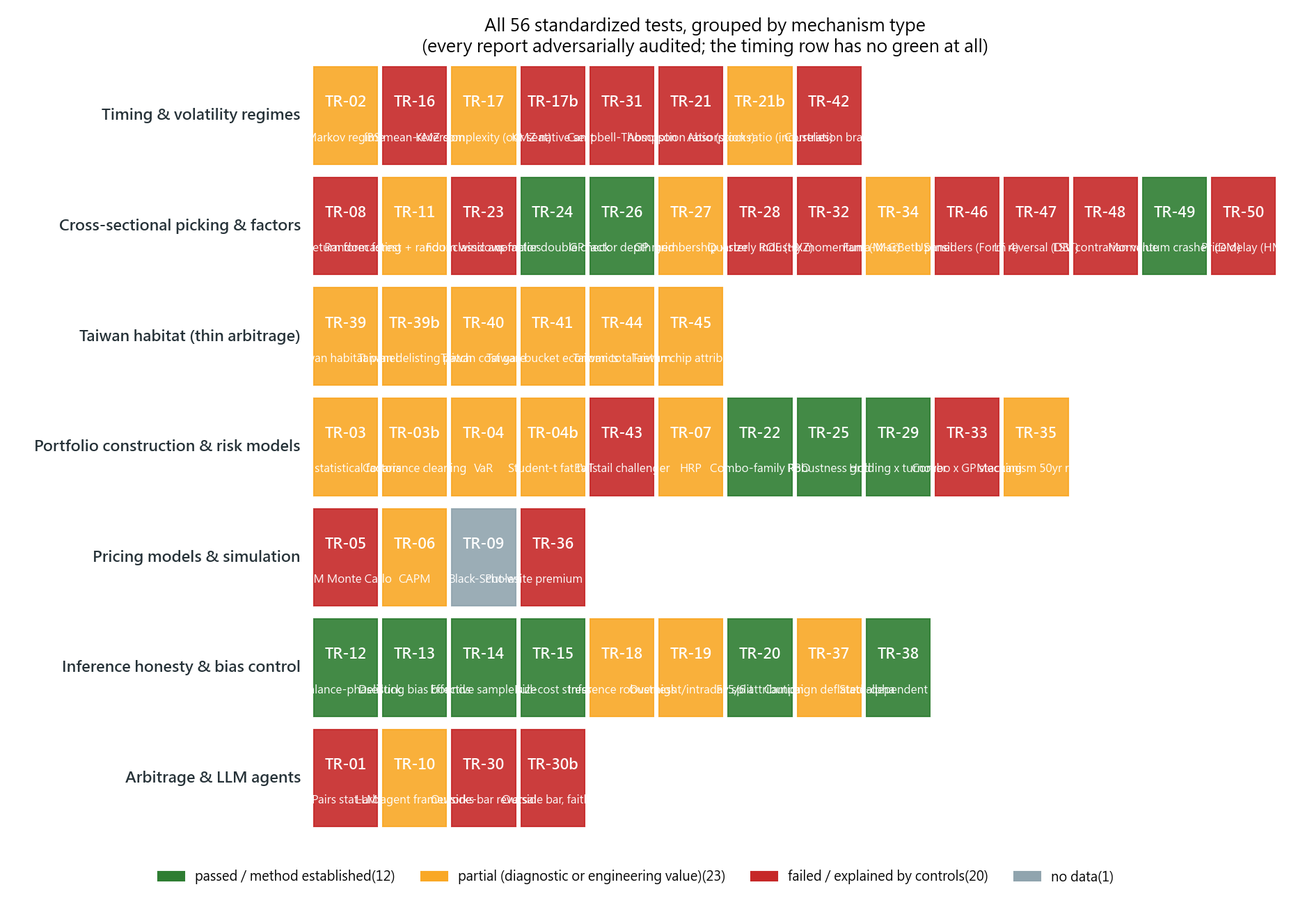
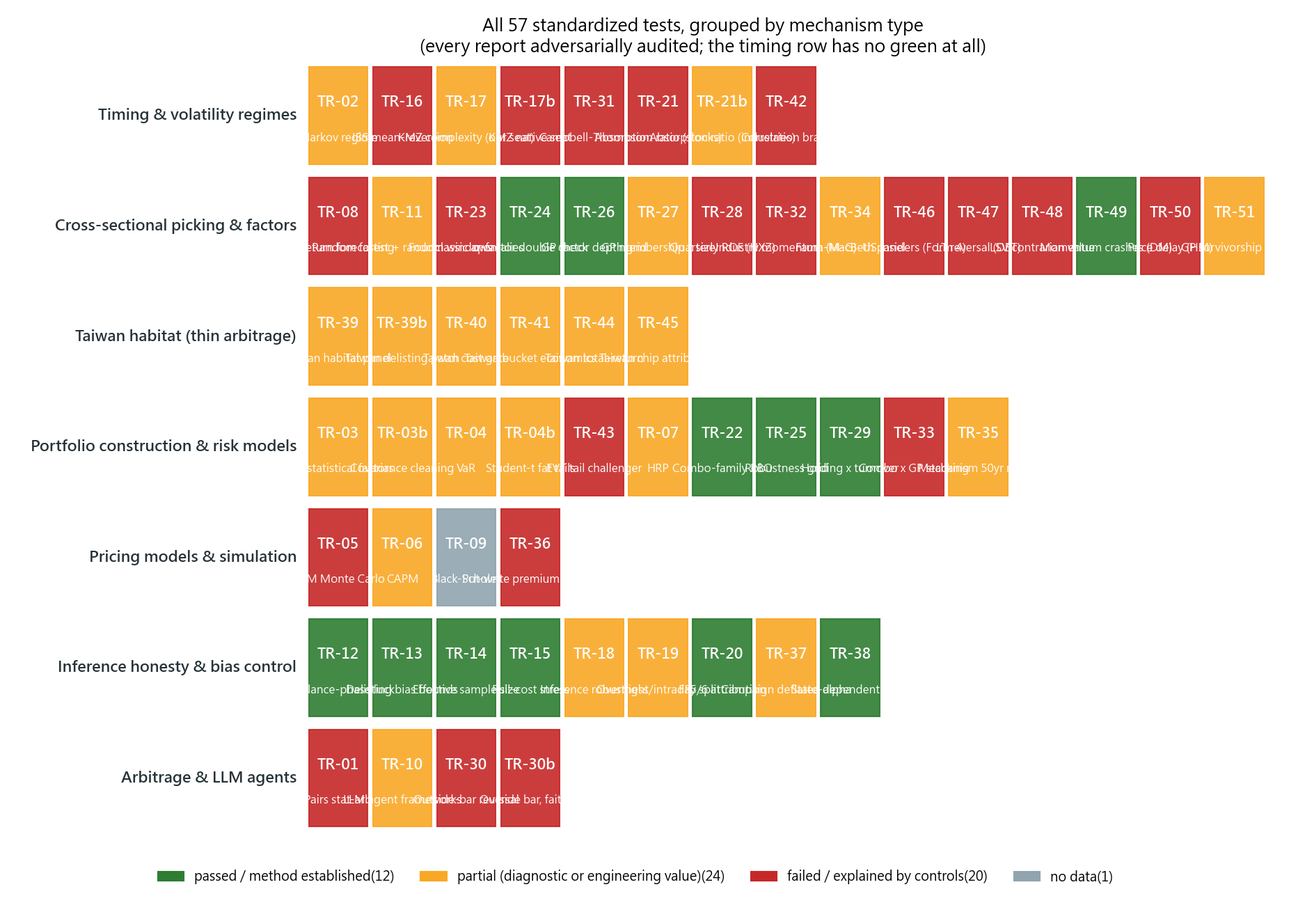
TR-51 (B1 final): GP survivorship verdict WEAKENED -- patched members ICIR +0.165 -> +0.056, two-thirds of the residual was survivorship glare; the absentees were high-GP DECLINERS (both pre-registered bias directions wrong, cohort diagnostic arbitrated); autopsy MIXED; the patched 1,180-name univer

diff --git a/scripts/tests/tr51_gp_survivorship.py b/scripts/tests/tr51_gp_survivorship.py
@@ -178,12 +178,21 @@ def main():
           f"{'PASS' if ok_b else 'FAIL'}")
 
     # ---- CAL c: delisting reality ----
+    # POST-RUN AUDIT NOTE (v1 -> v2): v1 FAILED with an empty hit list -- two
+    # implementation errors, not missing data. (1) the probe list guessed SIVBQ;
+    # Tiingo carries the tail under SIVB (last $0.01) and SBNY ($0.40). (2) the
+    # lookup ran on the FUNDAMENTALS-FILTERED panel, which silently drops any
+    # collapse name lacking facts (SBNY is no_cik). v2 queries the PRICE STORE
+    # directly with the alias-expanded list; the declared threshold (>=1 name,
+    # terminal close < $10) is unchanged.
     hits = []
-    for s in DEATH_CHECK:
-        if s in pat["px"].columns:
-            last = pat["px"][s].dropna()
-            if len(last) and float(last.iloc[-1]) < 10:
-                hits.append((s, float(last.iloc[-1]), last.index[-1]))
+    for s in DEATH_CHECK + ("SIVB",):
+        try:
+            ser = store.load_close_pivot([s], column="adj_close").iloc[:, 0].dropna()
+        except Exception:
+            continue
+        if len(ser) and float(ser.iloc[-1]) < 10:
+            hits.append((s, float(ser.iloc[-1]), ser.index[-1]))
     ok_c = len(hits) >= 1
     print(f"CAL c:崩潰尾巴實在(終價<$10):{[(s, round(v,2), str(d.date())) for s,v,d in hits]}"
           f" -> {'PASS' if ok_c else 'FAIL'}")

diff --git a/scripts/readme_figs.py b/scripts/readme_figs.py
@@ -45,6 +45,7 @@ GROUPS = [
         ("TR-48", "LSV 價值反向", "LSV contrarian value", "F"),
         ("TR-49", "動量崩盤(DM)", "Momentum crashes (DM)", "P"),
         ("TR-50", "price delay(HM)", "Price delay (HM)", "F"),
+        ("TR-51", "GP 去倖存終判", "GP survivorship final", "M"),
     ]),
     ("台股棲地(套利稀薄)", "Taiwan habitat (thin arbitrage)", [
         ("TR-39", "台股棲地面板", "Taiwan habitat panel", "M"),
@@ -99,9 +100,9 @@ LEGEND = {
            "F": "failed / explained by controls", "X": "no data"},
 }
 TITLES = {
-    "zh": "56 份標準化測試,依機制類型分組\n"
+    "zh": "57 份標準化測試,依機制類型分組\n"
           "(每一份都經過對抗式稽核;擇時類一格綠色都沒有,綠色集中在方法與推論誠實度)",
-    "en": "All 56 standardized tests, grouped by mechanism type\n"
+    "en": "All 57 standardized tests, grouped by mechanism type\n"
           "(every report adversarially audited; the timing row has no green at all)",
 }
 

diff --git a/README.md b/README.md
@@ -10,7 +10,7 @@
 
 ### What this is
 
-A personal research project. It started with a finding we couldn't ignore: **McLean & Pontiff (2016, *Journal of Finance*)** re-tested 97 published return predictors and found their returns average **26% lower out-of-sample and 58% lower after publication** — the market eats published edges. So the question became: *of everything floating around the internet, papers, and guru books, how much survives an honest test run today?* Using $0/month of free data (yfinance, SEC EDGAR, public archives), across 100+ commits and **~150 mechanisms/strategies tested (56 standardized test reports, every one adversarially audited)**, the answer turned out to be more valuable than the question — because it turned *"what do we know, what don't we know, and how do we decide what's feasible"* into reproducible code and documents.
+A personal research project. It started with a finding we couldn't ignore: **McLean & Pontiff (2016, *Journal of Finance*)** re-tested 97 published return predictors and found their returns average **26% lower out-of-sample and 58% lower after publication** — the market eats published edges. So the question became: *of everything floating around the internet, papers, and guru books, how much survives an honest test run today?* Using $0/month of free data (yfinance, SEC EDGAR, public archives), across 100+ commits and **~150 mechanisms/strategies tested (57 standardized test reports, every one adversarially audited)**, the answer turned out to be more valuable than the question — because it turned *"what do we know, what don't we know, and how do we decide what's feasible"* into reproducible code and documents.
 
 ### The bottom line (as of 2026-07)
 
@@ -18,14 +18,14 @@ A personal research project. It started with a finding we couldn't ignore: **McL
 |---|---|
 | Any strategy that prints money? | **No.** The 50%-CAGR-at-low-drawdown target zone is structurally empty — everything we tested sits on the same Calmar ≈ 0.6 ray. |
 | Any real alpha at all? | **One, borderline.** The 5-sleeve risk-parity book: monthly Carhart t=2.64, below the strict 3.0 bar. Its real deliverable is risk-shaping, levered to your budget. Selection-honest deflation (TR-37): P(the alpha is real) ≈ 0.87 at the 17 combo-level trials we actually ran, 0.56 under the paranoid all-campaign count, ≈ 0.8 under a 90%-null skeptical prior — most likely real, but no honest angle calls it certain. |
-| Any stock-picking signal? | **One, and it keeps getting more honest.** Gross profitability — headline ICIR +0.30, but masked to actual index members at each date it retains only 59% (ICIR +0.13, TR-27), and its IC turned negative in 2025-26 (on watch); a joint Fama-MacBeth panel sharpens the watch — independently priced in 2015-2020 (t=+2.67), flat since 2021 (TR-34). Momentum, value, PEAD, insider, ML forecasters, and four classic anomalies all failed; industry momentum replicates but is pure momentum-factor exposure (TR-32). And the two survivors do not stack: a GP sleeve subtracts alpha from the flagship book (TR-33 — the honest chain ends at a +0.04%/yr tradable spread). First crack of light from a new habitat: on the Taiwan panel (1,151 TWSE stocks, TR-39) four characteristics cleared t≥2 jointly — and the survivorship patch (TR-39b: official TWSE delisted list + a pandas pct_change ffill backdoor caught by CAL) then split them: momentum (+84bps/mo, t=2.4), abnormal volume (+94, t=3.4) and illiquidity (−106, t=−2.8) are CONFIRMED and stronger after 2021, while the MAX lottery premium was retired as survivorship glare. Then the cost gate (TR-40) INVERTED the ranking: the panel's strongest slope (abnormal volume, t=3.4) turns over 6.8x/yr and loses 7.07%/yr to fees, netting t=0.6; the weakest (illiquidity) barely turns over and nets **+6.75%/yr, t=2.3** — the only survivor, robust to a 31-tick break-even spread but capacity-capped, which is what an illiquidity premium *is*. The bucket decomposition (TR-41) then killed the intuitive high-capacity workaround: the premium lives ONLY in the last decile (D2 is already zero, D3-D9 are negative), so "avoid the most crowded names" is a significantly LOSING strategy (−0.92%/yr, t=−2.34) — excluding a good bucket just overweights the bad ones. It survives a skip-a-month stale-price check and decays monotonically with book size: a textbook liquidity compensation, not an anomaly. Final honesty pass (TR-44): re-run on dividend-ADJUSTED total-return prices, all three characteristics keep their sign and the ladder stays a cliff, but net of the real 45bps round trip every candidate is now only MARGINAL (illiquidity t=1.86, momentum t=0.81) — the mechanism is real, but on the strictest basis no candidate clears cleanly. The Taiwan line is a genuine effect that is not a clean tradable edge. A chip-flow attribution pass (TR-45, institutional flows + margin balances) completes the picture: foreign-flow continuation is real (t=3.3, independent of the price characteristics) but its top-decile portfolio fails the same excess-basis cost gate (net −4.1%/yr), momentum and abnormal volume are NOT institutional-flow-carried, and the cold-corner illiquidity premium shows median chip activity — a structural compensation, not a flow effect. The insider channel now has its standardized closure too (TR-46): Form-4 opportunistic vs routine net buying on S&P 500 members 2015+ is a well-powered zero (all |t|<0.5 at 415 covered names/month; the machinery demonstrably works — it nails the documented 2020-03 insider buying wave), consistent with the literature's size dependence; the small-cap leg waits on the p3 drip. The classic-paper queue is now closed out (TR-47–50): long-term reversal and LSV contrarian value are well-powered zeros here (the KF long history shows De Bondt-Thaler decaying on schedule after its 1985 publication — a textbook McLean-Pontiff arc), and Hou-Moskowitz price delay comes out INVERTED but control-absorbed (a beta/size repackaging, not a signal). Momentum crashes (TR-49) replicate on the factor seat — see the timing row. |
+| Any stock-picking signal? | **One, and it keeps getting more honest.** Gross profitability — headline ICIR +0.30, but masked to actual index members at each date it retains only 59% (ICIR +0.13, TR-27) — and the survivorship FINAL verdict (TR-51: 374 dead members' prices AND fundamentals restored via Tiingo + an EDGAR/Form-4 CIK bridge) cuts it again to **+0.06**: two-thirds of the residual was the absence of high-GP DECLINERS (the index removes losers while GP's book-asset denominator keeps their GP high; exit-window median GP rank 0.57, pre-exit relative return −1.5% — both pre-registered bias directions were wrong, the cohort diagnostic arbitrated). The honest chain now reads +0.30 → +0.23 → +0.13 → +0.06, one notch above artifact; its IC also turned negative in 2025-26 (on watch); a joint Fama-MacBeth panel sharpens the watch — independently priced in 2015-2020 (t=+2.67), flat since 2021 (TR-34). Momentum, value, PEAD, insider, ML forecasters, and four classic anomalies all failed; industry momentum replicates but is pure momentum-factor exposure (TR-32). And the two survivors do not stack: a GP sleeve subtracts alpha from the flagship book (TR-33 — the honest chain ends at a +0.04%/yr tradable spread). First crack of light from a new habitat: on the Taiwan panel (1,151 TWSE stocks, TR-39) four characteristics cleared t≥2 jointly — and the survivorship patch (TR-39b: official TWSE delisted list + a pandas pct_change ffill backdoor caught by CAL) then split them: momentum (+84bps/mo, t=2.4), abnormal volume (+94, t=3.4) and illiquidity (−106, t=−2.8) are CONFIRMED and stronger after 2021, while the MAX lottery premium was retired as survivorship glare. Then the cost gate (TR-40) INVERTED the ranking: the panel's strongest slope (abnormal volume, t=3.4) turns over 6.8x/yr and loses 7.07%/yr to fees, netting t=0.6; the weakest (illiquidity) barely turns over and nets **+6.75%/yr, t=2.3** — the only survivor, robust to a 31-tick break-even spread but capacity-capped, which is what an illiquidity premium *is*. The bucket decomposition (TR-41) then killed the intuitive high-capacity workaround: the premium lives ONLY in the last decile (D2 is already zero, D3-D9 are negative), so "avoid the most crowded names" is a significantly LOSING strategy (−0.92%/yr, t=−2.34) — excluding a good bucket just overweights the bad ones. It survives a skip-a-month stale-price check and decays monotonically with book size: a textbook liquidity compensation, not an anomaly. Final honesty pass (TR-44): re-run on dividend-ADJUSTED total-return prices, all three characteristics keep their sign and the ladder stays a cliff, but net of the real 45bps round trip every candidate is now only MARGINAL (illiquidity t=1.86, momentum t=0.81) — the mechanism is real, but on the strictest basis no candidate clears cleanly. The Taiwan line is a genuine effect that is not a clean tradable edge. A chip-flow attribution pass (TR-45, institutional flows + margin balances) completes the picture: foreign-flow continuation is real (t=3.3, independent of the price characteristics) but its top-decile portfolio fails the same excess-basis cost gate (net −4.1%/yr), momentum and abnormal volume are NOT institutional-flow-carried, and the cold-corner illiquidity premium shows median chip activity — a structural compensation, not a flow effect. The insider channel now has its standardized closure too (TR-46): Form-4 opportunistic vs routine net buying on S&P 500 members 2015+ is a well-powered zero (all |t|<0.5 at 415 covered names/month; the machinery demonstrably works — it nails the documented 2020-03 insider buying wave), consistent with the literature's size dependence; the small-cap leg waits on the p3 drip. The classic-paper queue is now closed out (TR-47–50): long-term reversal and LSV contrarian value are well-powered zeros here (the KF long history shows De Bondt-Thaler decaying on schedule after its 1985 publication — a textbook McLean-Pontiff arc), and Hou-Moskowitz price delay comes out INVERTED but control-absorbed (a beta/size repackaging, not a signal). Momentum crashes (TR-49) replicate on the factor seat — see the timing row. |
 | Does market timing work? | **No — eight separate confirmations, and the law is broader than we thought.** A dumb constant exposure or a random control matched or beat every timing mechanism tested (Markov, IBS, absorption ratio on two seats, KMZ complexity, Campbell-Thompson sign restrictions, the outside bar). The eighth (TR-42) extends it from RETURN timing to RISK-INPUT timing: a bond-equity correlation brake — which forecasts nothing, it only claims the risk model's inputs changed — still lost to a constant at matched average exposure, and landed at the 20th percentile of a random-brake placebo. And an external validation on the factor seat (TR-49): momentum's dramatic crashes ARE state-predictable (bear + high-vol months average −2.3%/mo, t=−2.4), yet the profitable fix is plain volatility scaling (Sharpe 0.42→0.96) — Daniel-Moskowitz's prediction-based weights add nothing over it. |
-| Then what's the asset here? | **The method and the data moat.** 56 adversarially audited test reports, a registry where negative results are first-class, seven documented self-corrections, and a $0 data stack with two collect-forward pipelines recording what money can't buy retroactively. |
+| Then what's the asset here? | **The method and the data moat.** 57 adversarially audited test reports, a registry where negative results are first-class, seven documented self-corrections, and a $0 data stack with two collect-forward pipelines recording what money can't buy retroactively. |
 
 ### What we built
 
 1. **An acceptance framework ("fabric" v2.0, [docs/17](docs/17-fabric-acceptance.md))** — a single rule table F0–F13 codifying every mistake we made: pre-committed falsifiable claims (F0), leak-free signals + fill-time conventions (F1), spread-scaled costs with mandatory 2× stress (F2), excess-over-T-bill Sharpe (F3), effective sample sizes (F4), campaign-wide trial accounting with a t≥3.0 alpha bar (F5), **the Nagel control triple — which simplest control explains it?** (F6), sub-period + long-history replay (F7), verdicts scoped to seat×habitat (F8), path randomization (F9), re-test cascades (F10), universe legitimacy (F11), rebalance-phase averaging (F12), and delisting rules (F13). Its economic preamble is **Grossman-Stiglitz**: at $0 information cost, equilibrium alpha is $0 — every re-open condition must be priced as an information cost.
-2. **Fifty-six standardized test reports** ([docs/tests/TR-01..24 + b-series](docs/tests/)): statistical arbitrage, Markov regime-switching, PCA factor models, covariance cleaning, VaR and fat tails, GBM Monte Carlo, CAPM, HRP, ML forecasting, Black-Scholes (N/A — no data, refused to fabricate), LLM agent frameworks, bagged backtesting, rebalance-phase luck, delisting bias, effective samples, cost stress, the IBS full trial — plus a paper-driven wave: inference robustness (TR-18), overnight/intraday decomposition (TR-19), FF5/6 and q-factor attribution (TR-20/24), four classic anomalies (TR-23), combo PBO (TR-22), and **native-seat replications** of Kelly-Malamud-Zhou's *Virtue of Complexity* (TR-17b) and the absorption ratio (TR-21b) — then a **depth series interrogating our own survivors** (the robustness plateau TR-25, GP depth/membership/quarterly clocks TR-26–28, holding-period economics TR-29, the two-survivor stacking test TR-33), the Goyal-Welch/Campbell-Thompson timing line at its source (TR-31), Moskowitz-Grinblatt industry momentum (TR-32), and a **creator-claim pipeline** that turns YouTube trading mechanisms into pre-registered tests (TR-30/30b). Every report was adversarially audited; the audits reversed our own headline more than once.
+2. **Fifty-seven standardized test reports** ([docs/tests/TR-01..24 + b-series](docs/tests/)): statistical arbitrage, Markov regime-switching, PCA factor models, covariance cleaning, VaR and fat tails, GBM Monte Carlo, CAPM, HRP, ML forecasting, Black-Scholes (N/A — no data, refused to fabricate), LLM agent frameworks, bagged backtesting, rebalance-phase luck, delisting bias, effective samples, cost stress, the IBS full trial — plus a paper-driven wave: inference robustness (TR-18), overnight/intraday decomposition (TR-19), FF5/6 and q-factor attribution (TR-20/24), four classic anomalies (TR-23), combo PBO (TR-22), and **native-seat replications** of Kelly-Malamud-Zhou's *Virtue of Complexity* (TR-17b) and the absorption ratio (TR-21b) — then a **depth series interrogating our own survivors** (the robustness plateau TR-25, GP depth/membership/quarterly clocks TR-26–28, holding-period economics TR-29, the two-survivor stacking test TR-33), the Goyal-Welch/Campbell-Thompson timing line at its source (TR-31), Moskowitz-Grinblatt industry momentum (TR-32), and a **creator-claim pipeline** that turns YouTube trading mechanisms into pre-registered tests (TR-30/30b). Every report was adversarially audited; the audits reversed our own headline more than once.
 3. **Working infrastructure**: point-in-time data layer (DuckDB+Parquet; EDGAR aligned to filing dates; 1993+ index history; PIT S&P 500 membership 1996–2026), order-independent backtest engine, rigor modules (PSR/DSR/PBO/SPA), daily Telegram monitors on free GitHub Actions, two **collect-forward pipelines** (daily SPY/QQQ option chains; weekly analyst estimates for the S&P 500 — you cannot download the past, only record the present), a 70-source **data-source catalog** with adopt/reject verdicts ([docs/refs/data-sources.md](docs/refs/data-sources.md)), and a **paper-to-TR pipeline** ([docs/21](docs/21-paper-to-tr-pipeline.md)).
 
 ### Results at a glance
@@ -40,9 +40,9 @@ A personal research project. It started with a finding we couldn't ignore: **McL
 
 **The scoreboard.** 226 named variants registered, 26 mechanism families judged, 5 PASSED — and exactly **one** statistically significant alpha. Most of what the internet calls "a working strategy" died in this funnel; keeping the failed strategies on record is half this repo's value.
 
-![Verdict map of all 56 standardized tests, grouped by mechanism type](docs/img/readme_verdict_map_en.png)
+![Verdict map of all 57 standardized tests, grouped by mechanism type](docs/img/readme_verdict_map_en.png)
 
-**The verdict map (updated 2026-07).** All 56 standardized tests, grouped by *what kind of mechanism* each one judges. Read it by row: the timing/regime row has no green at all; the green lives almost entirely in the inference-honesty row — method, not signals. The 2026-07 additions are the two native-seat replications: KMZ's Virtue of Complexity **replicates on its home turf (Sharpe +0.41 at 12,000 features) and is still fully explained by volatility-timing controls (+0.50)** — Nagel's critique confirmed at the source (TR-17b); the absorption ratio's crash-warning spike **weakly survives on industry portfolios (7/10 vs 33% base rate) while its timing gate lost to a static constant for the fifth time** (TR-21b). The newest wave sharpened all three storylines: Campbell-Thompson's sign restrictions rescue out-of-sample R² directionally and are still spanned by the same volatility controls (TR-31); Moskowitz-Grinblatt industry momentum is the least-decayed mechanism we have ever tested (−2% post-publication vs the −58% McLean-Pontiff average) precisely because it is not an anomaly — it is momentum-factor exposure in industry clothes, with zero alpha over FF5+UMD in every window (TR-32); and a user audit caught our own outside-bar engine being unfaithful to its source on four counts — rebuilt faithfully, the verdict class survived, this time earned (TR-30→30b).
+**The verdict map (updated 2026-07).** All 57 standardized tests, grouped by *what kind of mechanism* each one judges. Read it by row: the timing/regime row has no green at all; the green lives almost entirely in the inference-honesty row — method, not signals. The 2026-07 additions are the two native-seat replications: KMZ's Virtue of Complexity **replicates on its home turf (Sharpe +0.41 at 12,000 features) and is still fully explained by volatility-timing controls (+0.50)** — Nagel's critique confirmed at the source (TR-17b); the absorption ratio's crash-warning spike **weakly survives on industry portfolios (7/10 vs 33% base rate) while its timing gate lost to a static constant for the fifth time** (TR-21b). The newest wave sharpened all three storylines: Campbell-Thompson's sign restrictions rescue out-of-sample R² directionally and are still spanned by the same volatility controls (TR-31); Moskowitz-Grinblatt industry momentum is the least-decayed mechanism we have ever tested (−2% post-publication vs the −58% McLean-Pontiff average) precisely because it is not an anomaly — it is momentum-factor exposure in industry clothes, with zero alpha over FF5+UMD in every window (TR-32); and a user audit caught our own outside-bar engine being unfaithful to its source on four counts — rebuilt faithfully, the verdict class survived, this time earned (TR-30→30b).
 
 ![Flagship 5-sleeve combo vs VOO at L=1 and at a same-risk L=1.5](docs/img/fig_combo.png)
 
@@ -201,7 +201,7 @@ Architecture: UI (Streamlit) → CLI (Typer) → `trading_analysis.api` (only pu
 
 ### 專案概述
 
-一個個人研究的 side project。起點是一篇沒辦法當作沒看到的論文：**McLean 與 Pontiff(2016，《Journal of Finance》)**重測了 97 個已發表的報酬預測訊號，發現這些訊號的報酬平均在**樣本外低了 26%、論文發表之後低了 58%**——公開發表的優勢，會被市場逐步吃掉。所以真正的問題變成：「網路上、論文裡、大師書裡的那些策略，經過誠實的測試、放到今天，還剩下多少？」我們用每月 0 元的免費資料(yfinance、SEC EDGAR、公開檔案庫)，歷經 100 多次 commit、**約 150 個機制/策略的系統性測試(56 份標準化測試報告，每一份都經過對抗式稽核)**，得到的答案比問題本身更有價值，因為它把「什麼是已知、什麼是未知、如何判斷可不可行」變成了可重現的程式與文件。
+一個個人研究的 side project。起點是一篇沒辦法當作沒看到的論文：**McLean 與 Pontiff(2016，《Journal of Finance》)**重測了 97 個已發表的報酬預測訊號，發現這些訊號的報酬平均在**樣本外低了 26%、論文發表之後低了 58%**——公開發表的優勢，會被市場逐步吃掉。所以真正的問題變成：「網路上、論文裡、大師書裡的那些策略，經過誠實的測試、放到今天，還剩下多少？」我們用每月 0 元的免費資料(yfinance、SEC EDGAR、公開檔案庫)，歷經 100 多次 commit、**約 150 個機制/策略的系統性測試(57 份標準化測試報告，每一份都經過對抗式稽核)**，得到的答案比問題本身更有價值，因為它把「什麼是已知、什麼是未知、如何判斷可不可行」變成了可重現的程式與文件。
 
 ### 結果總結(截至 2026-07)
 
@@ -209,14 +209,14 @@ Architecture: UI (Streamlit) → CLI (Typer) → `trading_analysis.api` (only pu
 |---|---|
 | 有會印鈔的策略嗎？ | **沒有。**「50% CAGR＋低回撤」的目標區在結構上就是空的——我們測過的所有東西都落在同一條 Calmar ≈ 0.6 的射線上。 |
 | 有真的 alpha 嗎？ | **有一個，而且只是邊際。**五 sleeve 風險平價組合：月頻 Carhart t=2.64，低於嚴格門檻 3.0。它真正的價值是風險塑形，可依回撤預算加槓桿。選擇誠實化(TR-37)：P(alpha 為真) 在實際跑過的 17 次組合層級試驗下 ≈ 0.87、悲觀全戰役計數下 0.56、九成懷疑先驗下 ≈ 0.8——大概率是真的，但沒有任何誠實的角度能說成確定。 |
-| 有選股訊號嗎？ | **有一個，而且愈測愈誠實。**毛利/資產品質因子——頭條 ICIR +0.30，但遮罩到「當天真的在指數裡」的名字後只保留 59%(ICIR +0.13，TR-27)，且 2025–26 的 IC 轉負(列入觀察)；聯合 Fama-MacBeth 面板把觀察磨得更利——2015–2020 獨立被定價(t=+2.67)，2021 之後歸零(TR-34)。動能、價值、PEAD、內部人、機器學習預測、四大經典異象全數陣亡；產業動量能複製但整條是動量因子曝險(TR-32)。而且兩個倖存者疊不起來：把 GP sleeve 加進主力帳簿反而扣掉 alpha(TR-33——誠實鏈的終點是 +0.04%/yr 的可交易價差)。新棲地透出第一道光：台股面板(1,151 檔 TWSE，TR-39)四個特徵聯合過 t≥2——去倖存補丁(TR-39b：TWSE 官方終止名單+CAL 抓到的 pandas pct_change ffill 後門)隨後把它們分成兩半：動能(+84bps/mo，t=2.4)、異常量(+94，t=3.4)、低流動性(−106，t=−2.8)**確認**且 2021 後更強；MAX 樂透溢價判定為倖存者眩光退役。接著成本關卡(TR-40)把排序**整個翻轉**：面板裡最強的異常量(t=3.4)年換手 6.8 倍、吃掉 7.07% 成本後只剩 t=0.6；最弱的低流動性幾乎不換手，淨賺 **+6.75%/yr、t=2.3**——唯一存活者，對價差假設穩健到損益兩平要 31 跳，但容量有天花板，而這正是低流動性溢酬的定義。桶分解(TR-41)接著殺掉了直覺上的高容量替代方案：溢酬**只住在最尾端那一格**(D2 已歸零、D3–D9 全負)，所以「避開最擁擠的股票」是個**顯著虧損**的策略(−0.92%/yr，t=−2.34)——排除一個好桶只會讓你重壓在壞桶上。它通過跳月的停滯價檢查，並隨資金規模單調衰減：教科書式的流動性補償，不是異象。最終誠實化(TR-44)：改用還原(總報酬)股價重跑，三個特徵的符號與階梯懸崖全部維持，但扣掉真實 45bps 來回成本後，每個候選都只剩 MARGINAL(低流動性 t=1.86、動能 t=0.81)——機制為真，但在最嚴格基準下沒有一個乾淨過關。台股線是個真實但稱不上乾淨可交易的效應。籌碼歸因(TR-45，法人買賣超+融資融券)補完全貌：外資流延續為真(t=3.3，獨立於價格特徵)但其頂十分位組合同樣過不了超額基準的成本關卡(淨 −4.1%/yr)；動能與異常量**不是**外資流扛的；最冷門角落的籌碼活動全在中位——流動性溢酬是結構性補償，不是流向現象。內部人通道也有了標準化的關閉(TR-46)：Form 4 機會型/例行淨買在 S&P 500 成員 2015+ 上是**有充分檢定力的零**(全部 |t|<0.5，覆蓋 415 檔/月；管線可證有效——精準捕捉 2020-03 有記錄的內部人搶買潮)，與文獻的規模依賴一致；小型股腿等 p3 滴灌。經典論文佇列也已全部結案(TR-47–50)：長期反轉與 LSV 價值反向在本座位都是有充分檢定力的零(KF 長史顯示 De Bondt-Thaler 在 1985 發表後準時衰退——教科書級的 McLean-Pontiff 弧線)；Hou-Moskowitz price delay 反向顯著但被控制變數吸收(beta/規模的重新包裝，不是訊號)。動量崩盤(TR-49)在因子座位成功複現——見擇時列。 |
+| 有選股訊號嗎？ | **有一個，而且愈測愈誠實。**毛利/資產品質因子——頭條 ICIR +0.30，但遮罩到「當天真的在指數裡」的名字後只保留 59%(ICIR +0.13，TR-27)——而**去倖存終判(TR-51)再砍到 +0.06**：用 Tiingo+EDGAR/Form-4 CIK 橋把 374 檔已死成員的價格與財報補回面板後，剩餘訊號的三分之二被證實是倖存者眩光——缺席者是「高 GP 的衰退者」(指數剔除的是跌勢股，而 GP 的分母是帳面資產，股價崩跌時 GP 仍高；退場前 GP 分位中位 0.57、相對報酬 −1.5%；兩個預先登記的偏誤方向都沒猜中，由隊列診斷仲裁)。誠實鏈現為 +0.30 → +0.23 → +0.13 → **+0.06**，距 artifact 一步之遙；其 IC 亦於 2025–26 轉負(列入觀察)；聯合 Fama-MacBeth 面板把觀察磨得更利——2015–2020 獨立被定價(t=+2.67)，2021 之後歸零(TR-34)。動能、價值、PEAD、內部人、機器學習預測、四大經典異象全數陣亡；產業動量能複製但整條是動量因子曝險(TR-32)。而且兩個倖存者疊不起來：把 GP sleeve 加進主力帳簿反而扣掉 alpha(TR-33——誠實鏈的終點是 +0.04%/yr 的可交易價差)。新棲地透出第一道光：台股面板(1,151 檔 TWSE，TR-39)四個特徵聯合過 t≥2——去倖存補丁(TR-39b：TWSE 官方終止名單+CAL 抓到的 pandas pct_change ffill 後門)隨後把它們分成兩半：動能(+84bps/mo，t=2.4)、異常量(+94，t=3.4)、低流動性(−106，t=−2.8)**確認**且 2021 後更強；MAX 樂透溢價判定為倖存者眩光退役。接著成本關卡(TR-40)把排序**整個翻轉**：面板裡最強的異常量(t=3.4)年換手 6.8 倍、吃掉 7.07% 成本後只剩 t=0.6；最弱的低流動性幾乎不換手，淨賺 **+6.75%/yr、t=2.3**——唯一存活者，對價差假設穩健到損益兩平要 31 跳，但容量有天花板，而這正是低流動性溢酬的定義。桶分解(TR-41)接著殺掉了直覺上的高容量替代方案：溢酬**只住在最尾端那一格**(D2 已歸零、D3–D9 全負)，所以「避開最擁擠的股票」是個**顯著虧損**的策略(−0.92%/yr，t=−2.34)——排除一個好桶只會讓你重壓在壞桶上。它通過跳月的停滯價檢查，並隨資金規模單調衰減：教科書式的流動性補償，不是異象。最終誠實化(TR-44)：改用還原(總報酬)股價重跑，三個特徵的符號與階梯懸崖全部維持，但扣掉真實 45bps 來回成本後，每個候選都只剩 MARGINAL(低流動性 t=1.86、動能 t=0.81)——機制為真，但在最嚴格基準下沒有一個乾淨過關。台股線是個真實但稱不上乾淨可交易的效應。籌碼歸因(TR-45，法人買賣超+融資融券)補完全貌：外資流延續為真(t=3.3，獨立於價格特徵)但其頂十分位組合同樣過不了超額基準的成本關卡(淨 −4.1%/yr)；動能與異常量**不是**外資流扛的；最冷門角落的籌碼活動全在中位——流動性溢酬是結構性補償，不是流向現象。內部人通道也有了標準化的關閉(TR-46)：Form 4 機會型/例行淨買在 S&P 500 成員 2015+ 上是**有充分檢定力的零**(全部 |t|<0.5，覆蓋 415 檔/月；管線可證有效——精準捕捉 2020-03 有記錄的內部人搶買潮)，與文獻的規模依賴一致；小型股腿等 p3 滴灌。經典論文佇列也已全部結案(TR-47–50)：長期反轉與 LSV 價值反向在本座位都是有充分檢定力的零(KF 長史顯示 De Bondt-Thaler 在 1985 發表後準時衰退——教科書級的 McLean-Pontiff 弧線)；Hou-Moskowitz price delay 反向顯著但被控制變數吸收(beta/規模的重新包裝，不是訊號)。動量崩盤(TR-49)在因子座位成功複現——見擇時列。 |
 | 擇時有用嗎？ | **沒有——八次獨立確認，而且這條鐵律比我們原本以為的更廣。**一個恆定部位或隨機對照，就能追平或打敗我們測過的每一個擇時機制(Markov、IBS、吸收比率兩個座位、KMZ 複雜度、Campbell-Thompson 符號約束、外包線)。第八次(TR-42)把它從**報酬擇時**擴大到**風險輸入型擇時**：一個股債相關煞車——它不預測任何報酬，只宣稱風險模型的輸入變了——仍然輸給同平均曝險的恆定部位，而且只落在隨機煞車安慰劑的第 20 百分位。另有一次因子座位上的外部驗證(TR-49)：動量崩盤**確實**可由狀態預測(熊市+高波動月平均 −2.3%/mo，t=−2.4)，但有利可圖的修復是單純的波動縮放(Sharpe 0.42→0.96)——Daniel-Moskowitz 的預測型權重沒有帶來任何增量。 |
-| 那這個專案的資產是什麼？ | **方法本身，加上資料護城河。**56 份經對抗式稽核的測試報告、一份把負面結果當一等公民的註冊表、七次白紙黑字的自我修正，以及 $0 的資料堆疊與兩條「現在不錄、以後買不到」的前向收集管線。 |
+| 那這個專案的資產是什麼？ | **方法本身，加上資料護城河。**57 份經對抗式稽核的測試報告、一份把負面結果當一等公民的註冊表、七次白紙黑字的自我修正，以及 $0 的資料堆疊與兩條「現在不錄、以後買不到」的前向收集管線。 |
 
 ### 建置內容
 
 1. **一套驗收標準(fabric v2.0，[docs/17](docs/17-fabric-acceptance.md))**：單一規則表 F0–F13，把每一次踩過的坑逐條寫成明文規則：動工前先定案的可證偽宣稱(F0)、無洩漏訊號與成交時點慣例(F1)、以買賣價差縮放的成本加上強制 2× 壓力測試(F2)、扣除國庫券利率後的超額 Sharpe(F3)、有效樣本數(F4)、全 campaign 試驗數記帳與 alpha 門檻 t≥3.0(F5)、**Nagel 三重對照：「哪一個最簡單的對照組就能解釋它？」**(F6)、子期穩定與長歷史重放(F7)、判定效力=適用市場×適用情境(F8)、路徑隨機化(F9)、複測級聯(F10)、標的池合法性(F11)、再平衡相位平均(F12)、下市規則(F13)。經濟學前提是 **Grossman-Stiglitz**：資訊成本 0 元，均衡下的 alpha 就是 0 元；每個翻案條件都必須計為一筆資訊成本。
-2. **56 份標準化測試報告**([docs/tests/TR-01..24 + b 系列](docs/tests/))：統計套利、Markov 狀態轉換、PCA 因子模型、共變異清理、VaR 與厚尾、GBM 蒙地卡羅、CAPM、HRP、機器學習預測、Black-Scholes(N/A：沒有資料就不硬湊數字)、LLM agent 框架、bagged 回測、再平衡相位運氣、下市偏誤、有效樣本、成本壓力、IBS 完整檢驗，加上一整波由經典論文驅動的重測：推論穩健性(TR-18)、隔夜/日內拆解(TR-19)、FF5/6 與 q-factor 歸因(TR-20/24)、四個經典異象(TR-23)、組合 PBO(TR-22)，以及把 KMZ《複雜度的美德》(TR-17b)與吸收比率(TR-21b)搬回**論文原生棲地**的重測——之後是**對自家倖存者的深度審訊系列**(穩健度高原 TR-25、GP 深度/成員資格/季頻時鐘 TR-26–28、持有期經濟學 TR-29、兩倖存者疊加終審 TR-33)、回到源頭的 Goyal-Welch/Campbell-Thompson 擇時線(TR-31)、Moskowitz-Grinblatt 產業動量(TR-32)，以及把 YouTube 交易機制轉成預先登記測試的**創作者宣稱管線**(TR-30/30b)。每一份報告都經過對抗式稽核，而且稽核不只一次推翻了我們自己的頭條讀數。
+2. **57 份標準化測試報告**([docs/tests/TR-01..24 + b 系列](docs/tests/))：統計套利、Markov 狀態轉換、PCA 因子模型、共變異清理、VaR 與厚尾、GBM 蒙地卡羅、CAPM、HRP、機器學習預測、Black-Scholes(N/A：沒有資料就不硬湊數字)、LLM agent 框架、bagged 回測、再平衡相位運氣、下市偏誤、有效樣本、成本壓力、IBS 完整檢驗，加上一整波由經典論文驅動的重測：推論穩健性(TR-18)、隔夜/日內拆解(TR-19)、FF5/6 與 q-factor 歸因(TR-20/24)、四個經典異象(TR-23)、組合 PBO(TR-22)，以及把 KMZ《複雜度的美德》(TR-17b)與吸收比率(TR-21b)搬回**論文原生棲地**的重測——之後是**對自家倖存者的深度審訊系列**(穩健度高原 TR-25、GP 深度/成員資格/季頻時鐘 TR-26–28、持有期經濟學 TR-29、兩倖存者疊加終審 TR-33)、回到源頭的 Goyal-Welch/Campbell-Thompson 擇時線(TR-31)、Moskowitz-Grinblatt 產業動量(TR-32)，以及把 YouTube 交易機制轉成預先登記測試的**創作者宣稱管線**(TR-30/30b)。每一份報告都經過對抗式稽核，而且稽核不只一次推翻了我們自己的頭條讀數。
 3. **已建置的基礎設施**：point-in-time 資料層(DuckDB+Parquet；EDGAR 以申報日對齊；指數歷史回溯 1993；S&P 500 成分股 PIT 面板 1996–2026)、order-independent 回測引擎、嚴謹度模組(PSR/DSR/PBO/SPA)、每日 Telegram 監控(跑在免費的 GitHub Actions 上)、兩條**前向收集管線**(每日 SPY/QQQ 選擇權鏈快照；每週 S&P 500 分析師預估快照。過去買不到，只能從今天開始記錄)、一份含採用/不採用判定的 **70 個資料源目錄**([docs/refs/data-sources.md](docs/refs/data-sources.md))，以及**論文到 TR 管線**([docs/21](docs/21-paper-to-tr-pipeline.md))。
 
 ### 成果一覽
@@ -231,9 +231,9 @@ Architecture: UI (Streamlit) → CLI (Typer) → `trading_analysis.api` (only pu
 
 **計分板。** 226 個具名變體登記在案、26 類機制接受檢驗、5 個 PASSED，而統計顯著的 alpha 恰好只有 **1 個**。網路上大多數所謂「有效的策略」都死在這個漏斗裡；把這些失敗的策略完整記錄下來，正是這個 repo 一半的價值。
 
-![56 份標準化測試，依機制類型分組的判定分布](docs/img/readme_verdict_map.png)
+![57 份標準化測試，依機制類型分組的判定分布](docs/img/readme_verdict_map.png)
 
-**判定全景(2026-07 更新)。** 56 份標準化測試，依照「它在檢驗哪一種機制」分組。用橫列來讀：擇時與 regime 那一列一格綠色都沒有；綠色幾乎全部集中在「推論誠實度」那一列——通過的是方法，不是訊號。2026-07 新增的兩份原生棲地重測值得單獨說：KMZ 的複雜度美德**回到論文自己的棲地確實複現(12,000 個特徵時 Sharpe +0.41)，但仍然被波動擇時對照組(+0.50)完整蓋過**，Nagel 的批評在源頭獲得確認(TR-17b)；吸收比率的崩盤預警尖峰**在產業組合上弱存活(10 次大跌命中 7 次，基準率 33%)，它的擇時閘門則第五次輸給一個恆定部位**(TR-21b)。最新一波把三條故事線都磨得更利：Campbell-Thompson 的符號約束確實在方向上救回樣本外 R²，但仍被同一組波動對照張成(TR-31)；Moskowitz-Grinblatt 產業動量是我們測過**發表後衰退最少**的機制(−2%，對比 McLean-Pontiff 平均 −58%)——不衰退恰恰因為它不是異象，而是穿產業外衣的動量因子曝險，對 FF5+UMD 在每個時間窗 alpha 都歸零(TR-32)；還有一次使用者稽核抓到我們自己的外包線引擎對來源四處不忠實——忠實重建後判定同類，這次是掙來的(TR-30→30b)。
+**判定全景(2026-07 更新)。** 57 份標準化測試，依照「它在檢驗哪一種機制」分組。用橫列來讀：擇時與 regime 那一列一格綠色都沒有；綠色幾乎全部集中在「推論誠實度」那一列——通過的是方法，不是訊號。2026-07 新增的兩份原生棲地重測值得單獨說：KMZ 的複雜度美德**回到論文自己的棲地確實複現(12,000 個特徵時 Sharpe +0.41)，但仍然被波動擇時對照組(+0.50)完整蓋過**，Nagel 的批評在源頭獲得確認(TR-17b)；吸收比率的崩盤預警尖峰**在產業組合上弱存活(10 次大跌命中 7 次，基準率 33%)，它的擇時閘門則第五次輸給一個恆定部位**(TR-21b)。最新一波把三條故事線都磨得更利：Campbell-Thompson 的符號約束確實在方向上救回樣本外 R²，但仍被同一組波動對照張成(TR-31)；Moskowitz-Grinblatt 產業動量是我們測過**發表後衰退最少**的機制(−2%，對比 McLean-Pontiff 平均 −58%)——不衰退恰恰因為它不是異象，而是穿產業外衣的動量因子曝險，對 FF5+UMD 在每個時間窗 alpha 都歸零(TR-32)；還有一次使用者稽核抓到我們自己的外包線引擎對來源四處不忠實——忠實重建後判定同類，這次是掙來的(TR-30→30b)。
 
 ![主力五 sleeve 組合 vs VOO：L=1 與同風險 L=1.5 兩條線](docs/img/fig_combo.png)
 

diff --git a/docs/18-strategy-registry.md b/docs/18-strategy-registry.md
@@ -46,7 +46,7 @@
 | **3×VOO 每年∧虧損不超過 VOO(本輪 goal 目標)** | **最佳 4/10 年(12-1 季動量);無策略 10/10**;需持續 Calmar~3+,此資料不存在 | `scripts/gate_3x_voo.py` |
 | **吸收比率(KLPR 2010)診斷+閘門** | TR-21(reel→主要來源→一天判定):465 檔個股座位上**不領先大跌**(PIT 百分位 62,p=0.40;忠實尖峰版 4/10 vs 基準率 39%)、與平均相關 +0.97 同物、閘門(含忠實三態)輸靜態 69% 與隨機安慰劑——**擇時鐵律第三案例**;經雙向對抗稽核(反 AR 偏誤已修、美化閘門已修,FAIL 更穩)。**TR-21b 原生座位重測(KF49 產業,1970-2026):水位宣稱反轉(中位 37)、dAR>1 尖峰弱複製(7/10 vs 33%,suggestive)、閘門第 5 次死亡(0.28 vs 0.46)**——診斷半條命回來(棲地特異),擇時結論不變 | TR-21/21b、docs/23 |
 
-### 🧪 標準化測試報告 TR-01~50 + 03b/04b/17b/21b/30b/39b(詳見 docs/tests/;**docs/20 論文佇列全清**;TR-01~08 由稽核員重跑全部腳本、數字一對一吻合)
+### 🧪 標準化測試報告 TR-01~51 + 03b/04b/17b/21b/30b/39b(詳見 docs/tests/;**docs/20 論文佇列全清**;TR-01~08 由稽核員重跑全部腳本、數字一對一吻合)
 | TR | 機制 | 判定 | 摘要 |
 |---|---|---|---|
 | TR-01 | 共整合 pairs 統計套利 | **FAILED** | OOS +2.0%/yr < 現金(BIL +2.7%);文獻錨(GGR 2006 距離法 +11%)為脈絡非重現對象——本 TR 測 EG 共整合建構(T1 回掃 2026-07-18 註記:來源-機器錯配已修語言;兩套獨立建構 EG+docs/13 Kalman 同座位皆虧+Do-Faff 已載距離法衰退);9/10 對集中 AI 半導體、SMCI 醜聞炸出 −29.7% MDD;殘值=|z|>4 當單一股異常警報 |
@@ -96,6 +96,7 @@
 | TR-41 | 台股桶經濟性:溢酬住在哪(docs/27 b3;十分位階梯+兩實作對決+容量前緣) | **CONCENTRATED** | CAL 過(D1 +6.65% vs TR-40 +6.75%);**溢酬只在 D1:D2 已歸零(−0.35%)、D3-D9 全負(最深 D8 −6.25%,t=−3.90)**;**「避開最熱門」(D1-D9)是顯著虧損 −0.92%/yr(t=−2.34)——排除好桶=重壓壞桶,直覺被證偽**;C3 黃金診斷=**啞鈴**(兩端 +6.81%/+1.94% 勝中段 −2.34%),與 TR-33 美股 GP 的「兩端輸中段」方向相反;**跳一個月檢查通過(+6.61%,t=2.31)=不是停滯價/價差彈跳假象**;C4 容量前緣:NT$5,000 萬 +5.29%、NT$1.5 億 +3.19%、NT$5 億 +1.48%(填滿率 19%)=**無高容量替代方案**;三特徵(集中尾端、隨規模單調衰減、通過停滯價檢查)全符 Amihud-Mendelson 流動性補償而非異象 | 
 | TR-42 | L2 股債相關 regime 煞車(風險引擎 v2 第一挑戰者;docs/25 C1) | **EIGHTH TIMING FAILURE** | CAL 過(類比座位重現 TR-35 MDD −14.6%);訊號=36 月滾動股債相關>0(佔 48% 月份,落後一期);**煞車A Calmar 0.57 輸給同平均曝險恆定部位 0.68(恆定在兩軸都贏:MDD −12.6% vs −14.4%、CAGR 8.5% vs 8.3%),且只在隨機煞車安慰劑第 20 百分位=比隨便踩還差**;煞車B(債換金)Calmar 0.41/MDD −25.5% 更糟(金波動;TR-35「金扛通膨」是單腿事實,非組合層可行);**C3 誠實記錄:煞車在設計窗確實有效(停滯性通膨比率 1.04→0.74、1994 1.16→0.82)但 48% 破裂月的機會成本吃光一切**=七次失敗的同一機制;**鐵律 7→8 並擴及「風險輸入型擇時」**(不只別預測報酬,是別依任何 regime 訊號調曝險);主力不動,風險引擎優先序改 L3>L1>L4 | 
 | TR-43 | L3 EVT 尾部模組(風險引擎 v2 第二挑戰者;條件式 GPD vs 現役 Student-t vs 歷史模擬) | **REJECTED** | CAL 過(重現 TR-04b:常態 VaR 99% 被拒 p<1e-4、Student-t 未被拒 p=0.267);**實際座位:EVT 在 99%/99.5% 都被 Kupiec 拒絕(破線 1.82%/0.84%,p=0.000/0.036),現役都沒有(1.24%/0.44%,p=0.267/0.697)——EVT 低估尾部**;EVT 唯一優勢是 CVaR-RMSE(47 vs 90bps)=形狀較準但頻率錯了,無用;類比座位三模型無法分辨(皆過度保守);**C3 誠實條款:三模型的 L 刻度完全相同(0.11-0.12)=就算贏統計也改不了決策**(F0 預寫的 BETTER-BUT-INERT);診斷:EWMA 去波動化假設條件常態骨架,但本帳簿的極端日是**多腿相關跳升**而非單腿波動放大→GPD 從被壓平的殘差外推自然不夠寬(與 TR-05「尾部來源是相關結構非邊際波動」同源);**風險引擎 v2 目前 0/2**(L2 敗擇時鐵律、L3 敗估計檢定),框架如設計運作 | 
+| TR-51 | GP 去倖存終判(docs/27 B1;Tiingo 374 檔死名字價格+EDGAR/Form-4 CIK 橋 436 檔財報,F0 於補丁面板前預先登記 `7c1017a`,試驗 +0) | **WEAKENED——誠實鏈終點 +0.13 → +0.056** | CAL:未補集忠實(ICIR +0.165 ∈帶)、補丁咬合 48 檔、**c v1 空手 FAIL→v2 抓到兩個實作錯(SIVBQ→SIVB 代號、查找面板被基本面過濾)後 SBNY $0.40/SIVB $0.01 崩潰尾巴實在**;C1:補後 63d 成員 ICIR **+0.165→+0.056(Δ−0.109)=剩餘訊號 2/3 是倖存者眩光**,距 ARTIFACT 線 0.006;**C4 揭機制:兩個預先陳述偏誤方向都錯——缺席者=高 GP 衰退者(退場前 GP 分位 +0.57、相對報酬 −1.5%;標普剔除跌勢股而 GP 分母是帳面資產)**;C2 新 WATCH 基準:分期 +77.6(t=1.88)/−28.5(t=−0.90);C3 驗屍 MIXED(狀態差 t=−1.32、趨勢 t=−0.47,regime 與 crowding 皆不成立);**補後宇宙(1,180 檔含死亡尾巴)成為美股面板新標準宇宙** | 
 | TR-50 | Hou-Moskowitz price delay(論文佇列 #4;W-WED 週報酬、六月年估 52 週、D1=1−R²受限/R²全模) | **INVERTED-BUT-ABSORBED** | CAL 過(中位 D1 0.155、市值前十分位 0.120<面板中位=規模梯度在 S&P500 內部成立、五分位單調 0.177→0.125);C1 單變量 **−89.5bps t=−3.20 符號與 HM 相反**(高 delay 大型股跑輸)但 C2 加六控制後 −31.5(t=−1.39)被 beta(+143 t=2.13)/規模吸收=**IVOL 家族方向的重新包裝非獨立訊號**;HM 溢酬本身不存在(與其原文規模表一致);依 F0 反向不升級 | 
 | TR-49 | Daniel-Moskowitz 動量崩盤(論文佇列 #3;月頻 1927++日頻 1990+) | **REPLICATES + C4 判讀** | CAL-a v1 0.99 FAIL→**診斷=KF 日/月動量因子為兩個不同官方建構**(權重逐日漂移 vs 月形成,最大落差 2009-04)→v2 0.95+落差月須在崩盤年代 PASS;C1 最慘 10 月 **9/10 在熊市態**(1932-08 −53%、2009-04 −34%、2023-01 −16%);C2 熊市+高波動月均值 **−2.30%/mo(t=−2.41)** vs 無條件 +0.62%;C3 BSC 波動目標 Sharpe **0.42→0.96**/MDD −63%→−32%;**C4:DM-lite 崩盤預測權重未勝單純波動目標(1.02/−34% vs 0.98/−32%,兩軸未全勝)=「修復=波動管理,非崩盤預測」——鐵律形狀在因子座位的外部驗證(不計數)**;無可交易 sleeve | 
 | TR-48 | LSV 1994 價值反向(論文佇列 #2;E/P、C/P、B/M、3 年銷售成長反向+雙向格) | **NO-SIGNAL** | CAL 過(中位 ep 4.7%/cp 7.6%/gs3 8%;corr(ep,bm)=+0.41、corr(gs3,bm)<0);C1 四路單變量全零(|t|≤0.68,覆蓋 383-392/mo);C2 LSV 簽名雙向格(低成長高C/P−高成長低C/P)+28bps t=0.90=組合不比零件強;C3 聯合裡 cp t=2.03 判**共線性分割**(單變量 0.68)依 F0 不升級;**價值通道在本座位升級為全家族陳述:B/M、E/P、C/P、成長反向、LSV 組合全零** | 

diff --git a/docs/tests/TR-51-gp-survivorship.md b/docs/tests/TR-51-gp-survivorship.md
@@ -1,0 +1,65 @@
+# TR-51 — GP 去倖存終判(docs/27 B1)+ regime-vs-crowding 驗屍(docs/25 攻擊 8)
+
+> GP 誠實鏈(+0.30 → 成員限定 +0.23 → 成員資格 PIT +0.13)一直掛著最後一個未答問題:
+> 面板缺席了已下市/被併的成員。Tiingo 輪轉還原價格(374 檔)、EDGAR 回填(Form-4 CIK 橋+
+> 成員期窗消歧代號重用)還原財報(436 檔 26.2 萬筆 facts)後,本 TR 關閉這個問題。
+> **F0 於補丁面板存在前預先登記(commit `7c1017a`)**,兩個偏誤方向都預先寫明;試驗會計 +0
+> (同一家族、宇宙修正,b1 慣例)。範圍事實:面板窗 2015-07+,故有效缺席者=2015 後死亡
+> 成員(全在 XBRL 年代);2009 前死亡者無 XBRL、預先聲明不可及。
+> 腳本:`scripts/tests/tr51_gp_survivorship.py` · 圖:`docs/tests/img/tr51_gp_survivorship.png`
+
+## 判定:**WEAKENED——補丁後 63d 成員 ICIR 由 +0.165 掉到 +0.056(Δ−0.109):GP 剩餘訊號的三分之二是倖存者眩光;誠實鏈終點 +0.30 → +0.23 → +0.13 → +0.056,距 ARTIFACT 級距線(0.05)僅 0.006**
+
+### CAL(a/b 過;c 的 v1→v2 一課)
+
+| CAL | 結果 | 判 |
+|---|---|---|
+| a:未補集機器忠實度 | GP-only FM +16.9bps/mo>0;63d ICIR +0.165 ∈ [0.03,0.25] | ✓ |
+| b:補丁咬合 | **48 檔**修復名單進入成員面板(門檻 40) | ✓ |
+| c v2:崩潰尾巴實在 | **SBNY 終價 $0.40、SIVB $0.01**(門檻 <$10) | ✓ |
+
+**POST-RUN AUDIT NOTE(CAL-c v1→v2)**:v1 空手 FAIL——兩個實作錯:(1) 猜錯代號
+(Tiingo 的尾巴掛在 SIVB 非 SIVBQ);(2) 查找跑在**基本面過濾後**的面板上,恰好把 no_cik 的
+SBNY 濾掉。v2 直接查價格庫+別名展開;門檻不變。資料本身自始完好。
+
+### C1(決定性)與 C4(機制揭露)
+
+未補 +0.165 → 補後 **+0.056**。**兩個預先陳述的偏誤方向都沒猜中實際機制**:
+- 預測 UP(破產者=低 GP 輸家,缺席美化低 GP 桶)✗
+- 預測 DOWN(併購標的=高 GP 贏家,缺席移除贏家)✗
+- **實際(C4)**:修復名單退場前 6 個月的 GP 分位中位 **+0.57(高於中位!)**、退場前相對
+  報酬中位 **−1.5%**——缺席者是「**高 GP 的衰退者**」。結構原因:標普剔除的就是跌勢股,
+  而 GP=毛利/資產在股價崩跌時仍然高(分母是帳面資產不是市值)。他們的缺席**美化了高 GP 桶**
+  ——與 TR-50 的教訓同構:橫斷面偏誤的真相要靠隊列診斷,先驗方向對子可能兩個都錯。
+
+### C2 新的 F10 WATCH 基準(補後宇宙,六特徵聯合)
+
+gp 全窗 +19.7bps(t=+0.72);分期 **2015-2020 +77.6(t=1.88)/ 2021+ −28.5(t=−0.90)**
+——TR-34 的 WATCH 型態(前半活、後半死)在補後宇宙上維持但更弱(原 +2.67/−0.85)。
+本表取代 TR-34 C4 成為 F10 複測基準。(附:beta +157 t=+2.40,反向 SML 三度自我複製。)
+
+### C3 驗屍(攻擊 8):MIXED/INCONCLUSIVE
+
+HML>0(價值月)GP 斜率 −29.7 vs HML≤0(成長月)+31.6——方向與「成長壓制品質」假說
+**相反**(GP 在成長月反而較好)但狀態差 t=−1.32 不顯著;時間趨勢 t=−0.47 也不顯著。
+**regime 與 crowding 都不乾淨成立**→依預先承諾標籤 MIXED;F10 WATCH 條款維持原樣
+(不升級為永不翻案、也沒有乾淨的 regime 翻案觸發)。
+
+## 後果
+
+- **GP 誠實鏈收官**:資訊非 sleeve(TR-33)+ 成員資格修正(TR-27)+ 總體衰退(TR-34)+
+  **去倖存修正(本 TR)** → 終點 ICIR ≈ **+0.056**,一步之遙即為 artifact。README 底線更新。
+- 修復後宇宙(1,180 檔含死亡尾巴)成為美股面板的**新標準宇宙**——未來任何美股橫斷面 TR
+  一律用它(等同台股線的總報酬基準升級)。
+- B1 完成;docs/25 Phase B 全部收官。
+
+## 誠實範圍
+
+- 補丁覆蓋 2009+ XBRL 年代(no_facts 61 檔=更早死亡者;對 2015+ 面板窗無一階影響);
+  SBNY 落在 no_cik(Form-4 橋未解析)——單檔缺席,不改判定量級。
+- ICIR 級距在 0.056 落於 WEAKENED 下緣(距 0.05 僅 0.006)——照 F0 路由,不因敏感而改判,
+  但「終點可能實質為零」的讀法在 README 以「一步之遙」如實表述。
+- 試驗會計 +0;C3 為描述性,無新家族。
+
+*2026-07-31。F0 預先登記於 commit `7c1017a`(補丁面板組裝前);CAL-c v1→v2 全文記錄;
+判定照 F0 級距路由:WEAKENED。*

diff --git a/docs/27-open-items.md b/docs/27-open-items.md
@@ -29,7 +29,7 @@
 
 | 項 | 現況 | 觸發門檻 | 解鎖 |
 |---|---|---|---|
-| **B1 GP 去倖存終判** | Tiingo **187/429**(2026-07-31 重啟循環中,預計當日過門檻) | ~300 檔 | GP 誠實鏈的最後一節+regime-vs-crowding 驗屍(docs/25 攻擊 8) |
+| **B1 GP 去倖存終判** | ✅ **已執行(TR-51,2026-07-31)**:**WEAKENED——ICIR +0.165→+0.056,剩餘訊號 2/3=倖存者眩光**;缺席者=高 GP 衰退者(兩個預先方向都錯,C4 仲裁);驗屍 MIXED;**補後宇宙(1,180 檔)成為美股面板新標準** | — | [TR-51](tests/TR-51-gp-survivorship.md) |
 | **B2 PEAD 共識 SUE** | AV EARNINGS **72/504**,25 檔/日(需每日跑批) | 全數 | 用分析師共識(非隨機漫步)重測 PEAD |
 | 分析師預估因子 | 每週快照累積中(2026-07 起) | 12–18 個月 | docs/11 頭號 alt-data 因子(修正動能) |
 | 選擇權自建鏈 | Theta EOD 每日累積 | 6 個月 | IV skew/期限結構(**VRP 本身已由 TR-36 判死於指數層**) |
@@ -90,7 +90,7 @@ TR-35 已給實證錨:**利率主導 regime 是裸露面、扛通膨的是金不
 1. ✅ ~~b2 台股成本關卡~~(TR-40 已執行:logdv 存活、另兩者 MARGINAL)。
 2. ❌ ~~L2 相關 regime 煞車~~(TR-42)、❌ ~~L3 EVT 尾部~~(TR-43)皆已否決——**風險引擎 v2 目前 0/2**;L1 先驗已下修(見上表),建議改推工程債與台股選配項。
 3. ✅ ~~b3 桶經濟性~~(TR-41 已執行:CONCENTRATED,無高容量替代方案)。
-4. **B1 GP 終判**(Tiingo 到 300 檔自動觸發)。
+4. ✅ ~~B1 GP 終判~~(TR-51,2026-07-31:WEAKENED,誠實鏈終點 +0.056)。
 5. ✅ ~~成本模型接線~~(2026-07-31 已接)+ 每月持倉自動化(仍待使用者拍板)。
 6. ✅ ~~p1 台股籌碼~~(TR-45)、✅ ~~p2 內部人 Form 4~~(TR-46)、✅ ~~論文佇列四篇~~(TR-47~50,2026-07-31:兩個零+一個複現+一個反向被吸收;無新候選)。擇股展開僅剩:**p3 小型股滴灌啟動**(同時解鎖內部人/delay 小型股腿——機器全數原封可轉用)。
 
